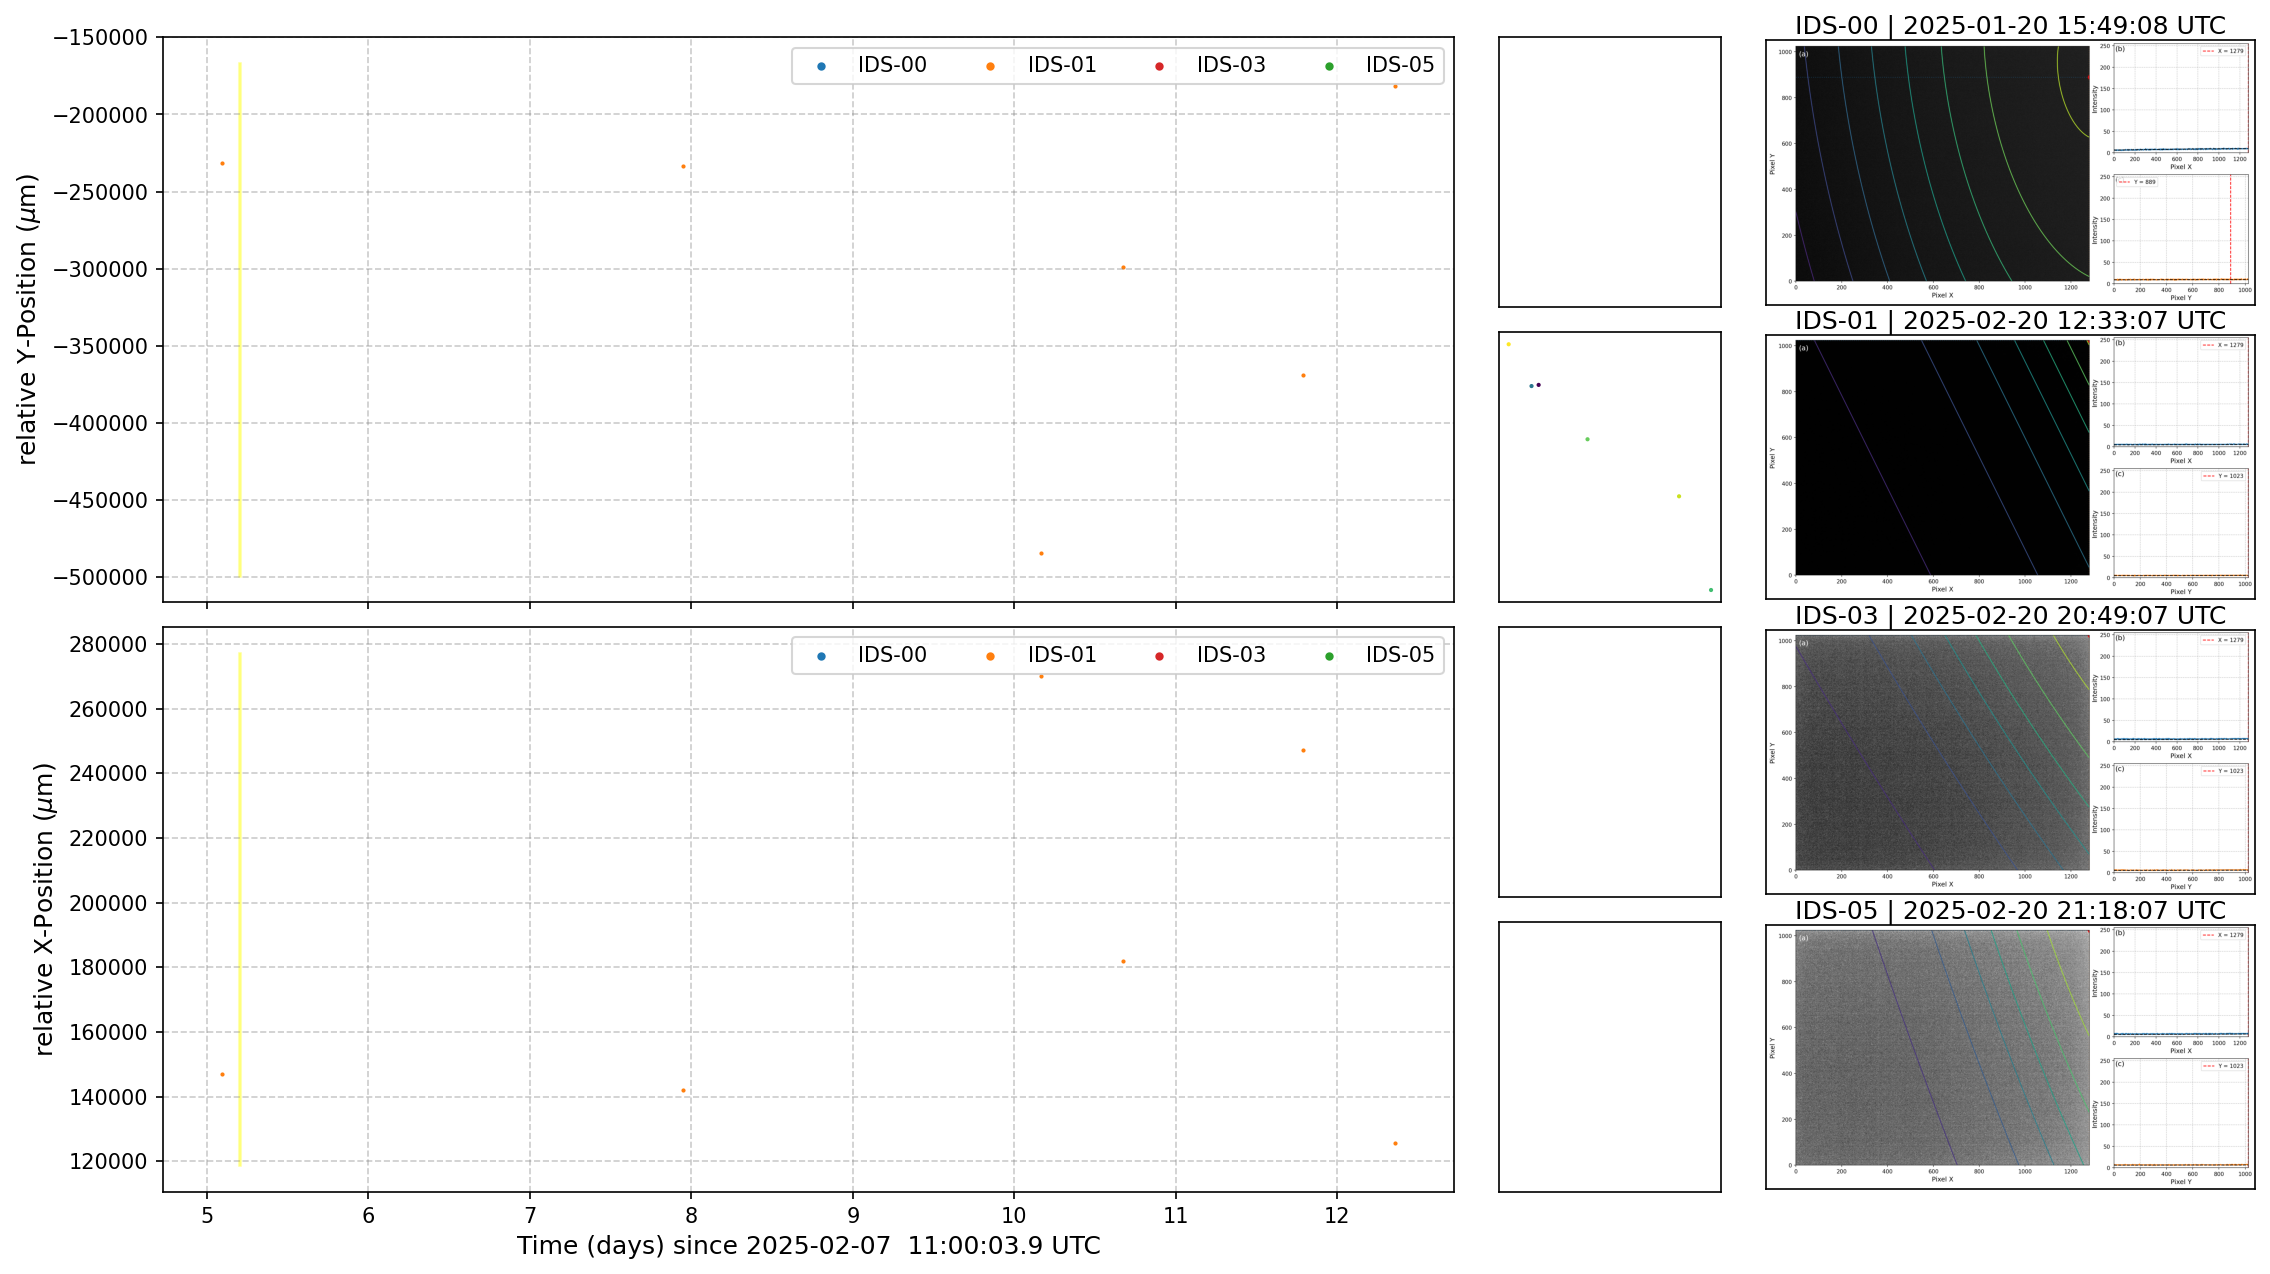
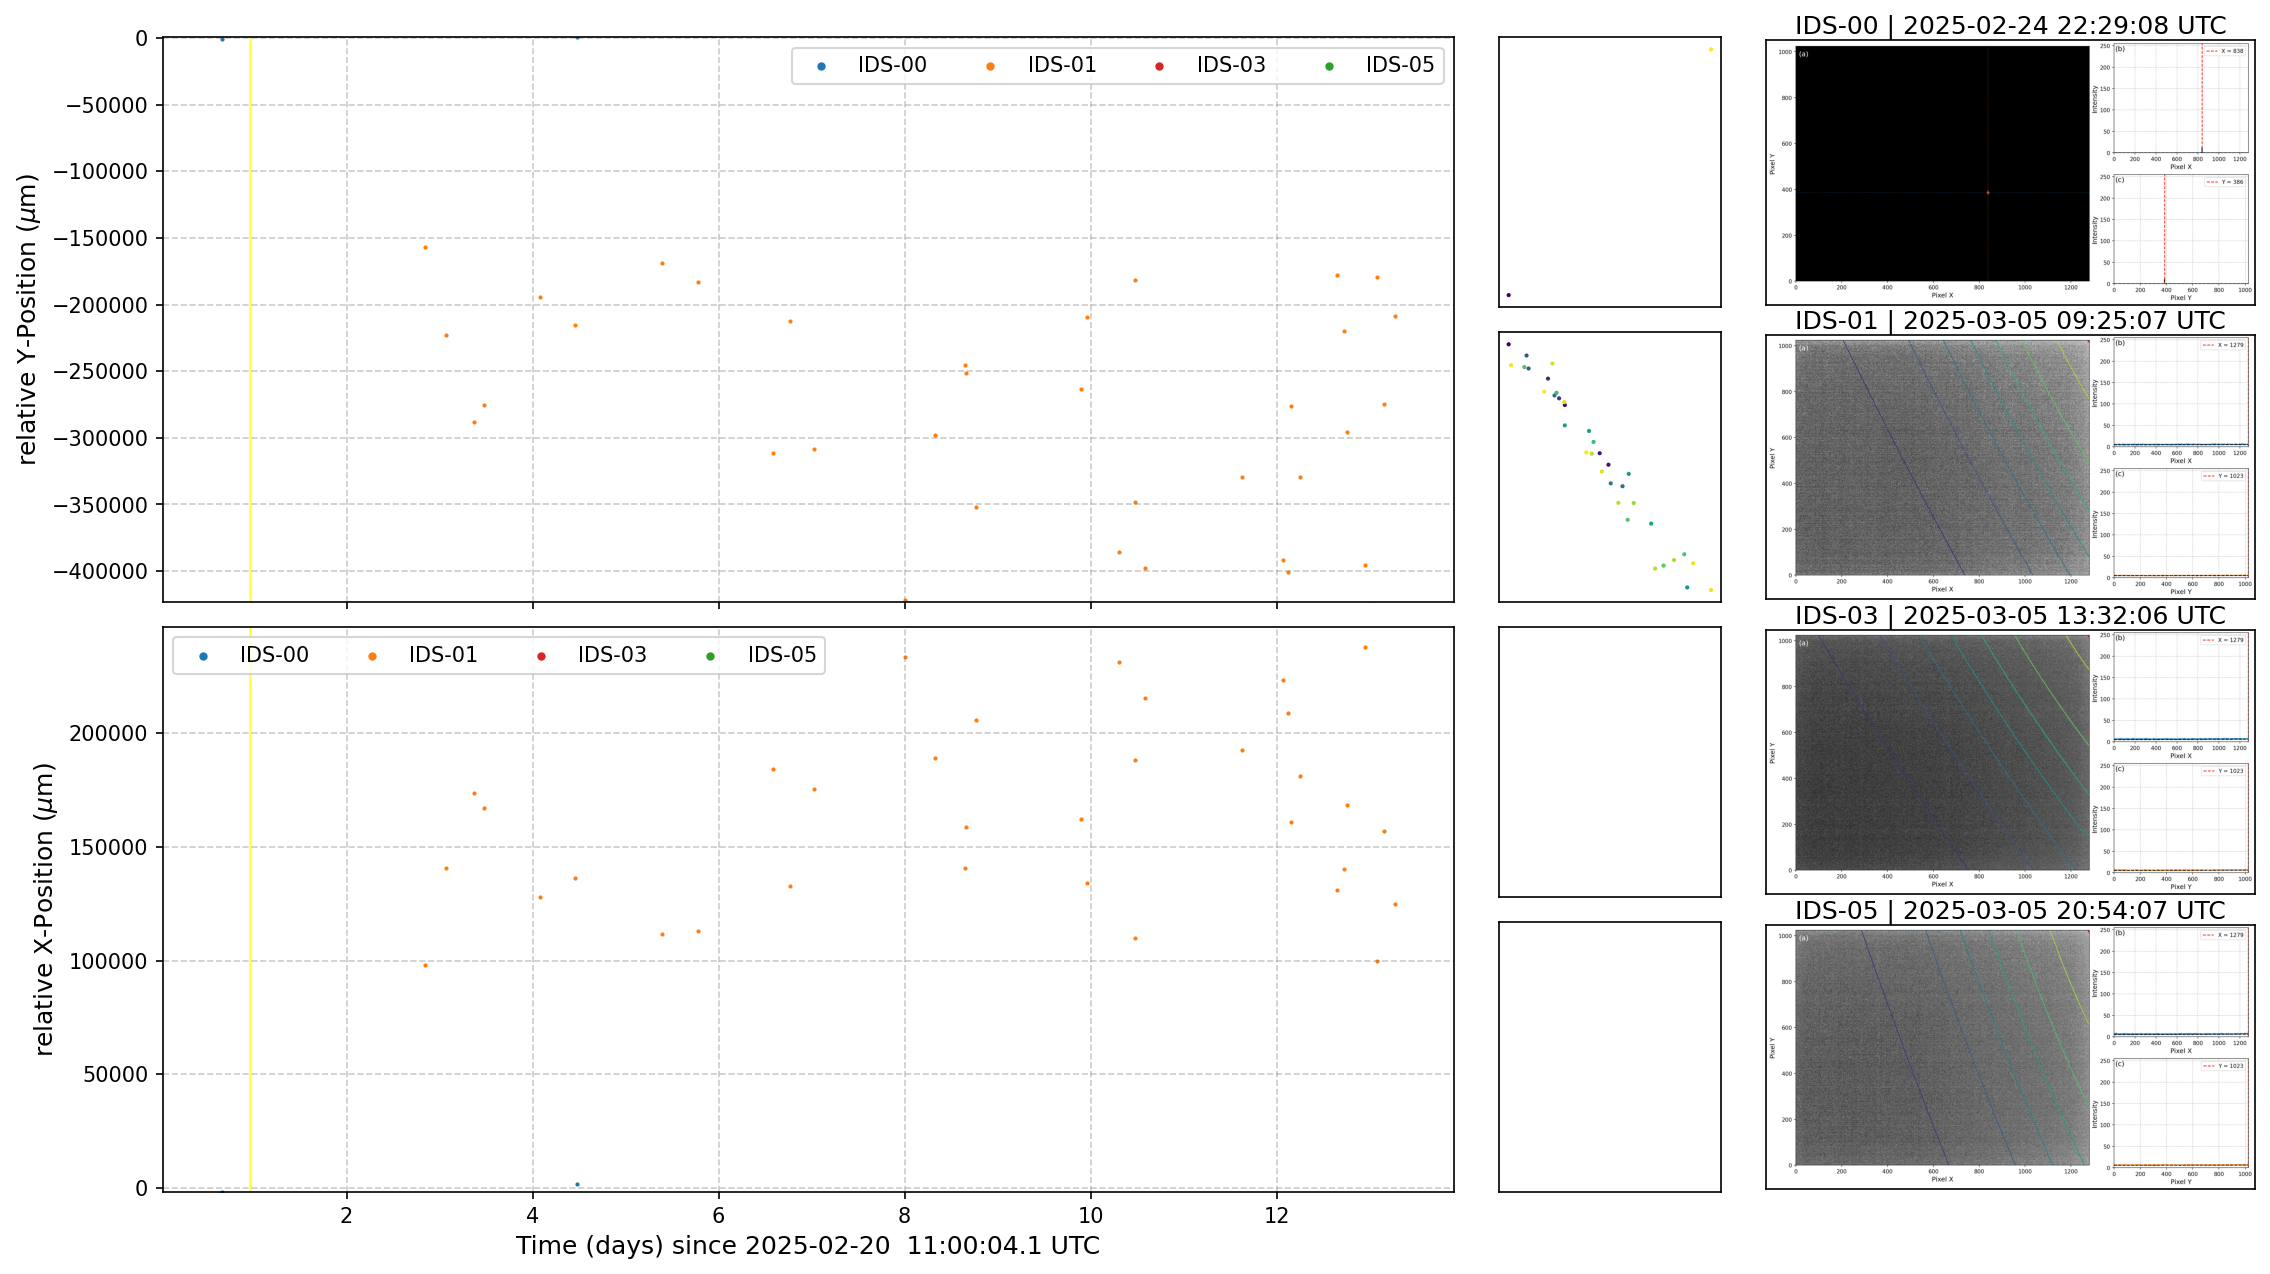
updates brotzer

diff --git a/webpage/ROMY_monitor_2.html b/webpage/ROMY_monitor_2.html
@@ -12,15 +12,15 @@
       <div class="panel1">
         <img src="figures/html_wromy.png"
              alt="WROMY PLOT" 
-             onerror="this.src='figures/old/error.png'" >
+             onerror="this.src='figures/old/oops.png'" >
       </div>
       <div class="panel2">
         <img src="figures/html_beatdrift.png" 
              alt="RADON PLOT" 
-             onerror="this.src='figures/old/error.png'"  >
+             onerror="this.src='figures/old/oops.png'"  >
         <img src="figures/html_oszi.png" 
              alt="CO PLOT" 
-             onerror="this.src='figures/old/error.png'" >
+             onerror="this.src='figures/old/oops.png'" >
       </div>
     </div>
    </div>

diff --git a/python_scripts/makeplot_WROMY.py b/python_scripts/makeplot_WROMY.py
@@ -17,12 +17,7 @@ from obspy import UTCDateTime, Stream
 
 # In[2]:
 
-
 # sys.path.append('..')
-
-
-# In[3]:
-
 
 from functions.load_lxx import __load_lxx
 from functions.get_lxx_intervals import __get_lxx_intervals
@@ -30,7 +25,7 @@ from functions.read_sds import __read_sds
 from functions.load_furt_stream import __load_furt_stream
 from functions.read_wromy_data import __read_wromy_data
 from functions.find_labels import __find_lables
-
+from functions.smoothing import __smooth
 
 # In[4]:
 
@@ -100,7 +95,7 @@ config['path_to_sds'] = archive_path+"romy_archive/"
 config['path_to_figs'] = data_path+"HTML_Monitor/figures/"
 
 # specify length of time interval to show
-config['time_interval'] = 21 # days
+config['time_interval'] = 14 # days
 
 # define time interval
 config['tend'] = UTCDateTime().now()
@@ -406,7 +401,7 @@ def __makeplot():
                        color=config['colors'][_s], lw=1, label=f"PS{_s}")
     except:
         pass
-z
+
     try:
         ax[3].plot(rdn.times_utc - config['tbeg'], rdn['Radon ST avg (Bq/m3)'], color="k", label=f"RDN")
     except:
